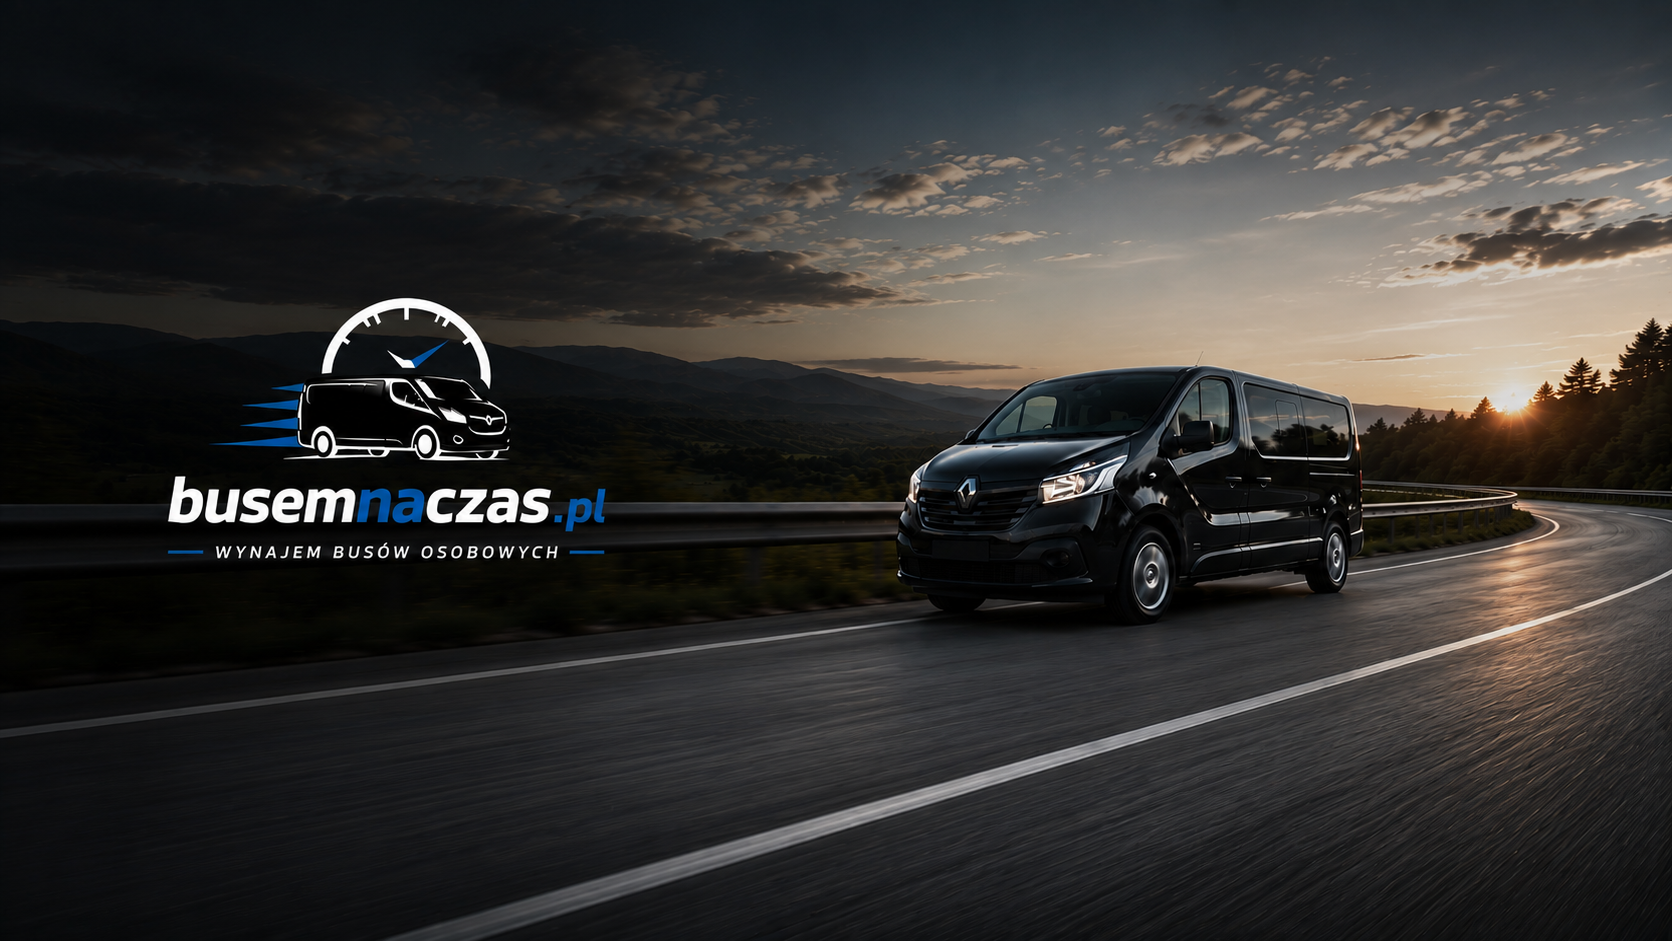
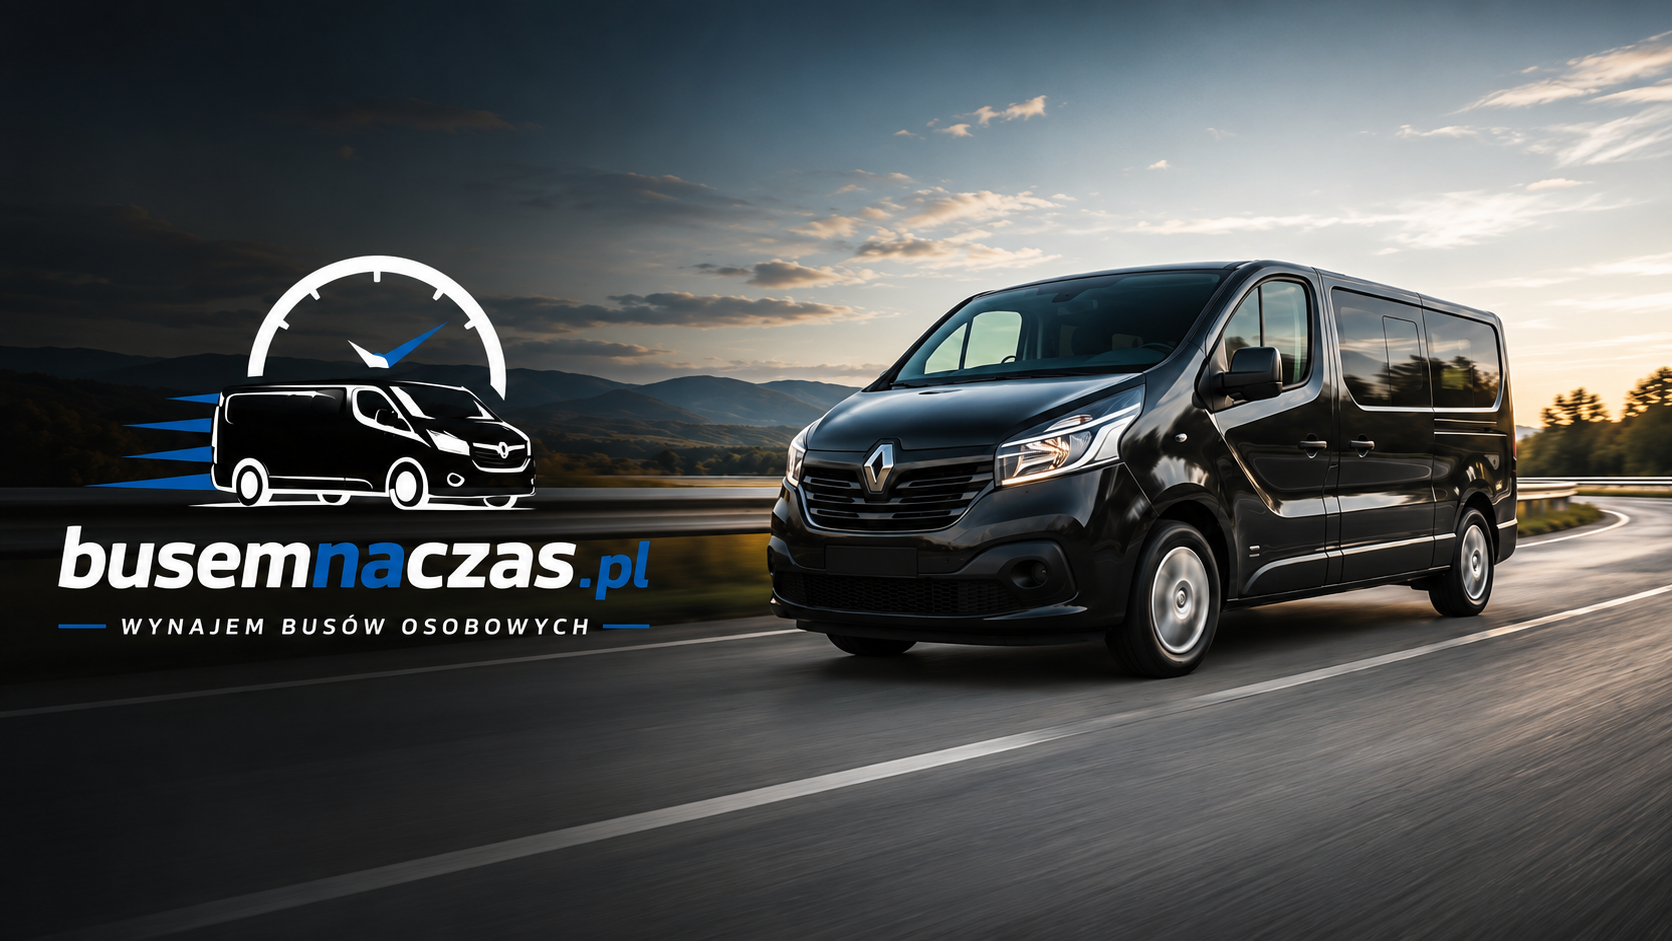
Add responsive mobile hero assets and quick actions

diff --git a/src/styles.css b/src/styles.css
@@ -17,6 +17,7 @@ img { display: block; max-width: 100%; }
 .container { width: min(1200px, calc(100% - 48px)); margin-inline: auto; }
 .brand { font-family: 'Inter Tight', sans-serif; font-size: 24px; font-weight: 500; letter-spacing: -.04em; white-space: nowrap; }
 .brand span { font-weight: 700; }
+.nav-brand { display: none; }
 .site-nav { position: fixed; inset: 0 0 auto; z-index: 50; height: 82px; border-bottom: 1px solid transparent; transition: background .35s, box-shadow .35s, border-color .35s; }
 .site-nav:not(.site-nav--scrolled) { color: #fff; }
 .site-nav:not(.site-nav--scrolled) .menu-button { color: #fff; }
@@ -41,6 +42,7 @@ img { display: block; max-width: 100%; }
 .hero-static-poster { position: absolute; inset: 0; width: 100%; height: 100%; }
 .hero-static-poster { z-index: 0; display: block; }
 .hero-static-poster img { width: 100%; height: 100%; object-fit: cover; object-position: center; }
+.hero-mobile-actions { display: none; }
 .hero-copy-section { background: #fff; border-bottom: 1px solid var(--line); }
 .intro-shell { padding: clamp(88px, 9vw, 132px) 0 54px; }
 .intro-grid { display: grid; grid-template-columns: minmax(0, 573px) minmax(320px, 1fr); gap: clamp(48px, 6vw, 92px); align-items: start; }
@@ -215,23 +217,34 @@ img { display: block; max-width: 100%; }
   .pricing-grid { grid-template-columns: repeat(2, 1fr); }
 }
 
+@media (max-width: 900px) {
+  .site-nav { height: 72px; }
+  .hero { padding-top: 72px; }
+  .hero-full-media { height: auto; min-height: 0; max-height: none; aspect-ratio: 16 / 9; }
+}
+
+@media (max-width: 900px) and (max-height: 500px) {
+  .hero-full-media { height: calc(100svh - 72px); aspect-ratio: auto; }
+}
+
 @media (max-width: 680px) {
   .container { width: min(100% - 32px, 1200px); }
   .site-nav { height: 68px; background: transparent; backdrop-filter: none; }
   .site-nav--scrolled { background: rgba(255,255,255,.94); backdrop-filter: blur(14px); }
   .brand { font-size: 20px; }
+  .nav-brand { display: inline; }
   .nav-cta { display: none; }
   .hero { padding-top: 68px; min-height: 0; }
-  .hero-full-media { height: auto; min-height: 0; max-height: none; aspect-ratio: 1672 / 941; }
+  .hero-full-media { height: auto; min-height: 0; max-height: none; aspect-ratio: 3 / 4; }
   .hero-static-poster img { object-position: center; }
-  .intro-shell { padding: 72px 0 42px; }
-  .intro-grid { gap: 32px; }
-  .intro-grid h1 { padding-top: 0; font-size: 45px; line-height: 1.01; }
-  .hero-subtitle { margin-top: 22px; font-size: 20px; }
-  .hero-body { margin-top: 18px; font-size: 14px; }
-  .hero-actions { margin-top: 28px; }
-  .hero-actions .button { min-width: 0; flex: 1; padding-inline: 14px; }
-  .trust-row { margin-top: 42px; grid-template-columns: repeat(2, 1fr); gap: 15px 12px; }
+  .hero-mobile-actions { position: absolute; z-index: 1; right: 16px; bottom: 16px; left: 16px; display: grid; grid-template-columns: 1fr 1fr; gap: 10px; }
+  .hero-mobile-actions .button { min-width: 0; min-height: 48px; padding-inline: 12px; border-color: rgba(255,255,255,.72); box-shadow: 0 10px 24px rgba(0,0,0,.22); }
+  .hero-mobile-actions .button-secondary { background: rgba(255,255,255,.94); }
+  .hero-copy-section { border-bottom: 0; }
+  .intro-shell { position: relative; height: 0; padding: 0; }
+  .intro-grid { display: block; }
+  .hero-title { position: absolute; width: 1px; height: 1px; margin: -1px; padding: 0; overflow: hidden; clip: rect(0, 0, 0, 0); white-space: nowrap; }
+  .intro-details, .trust-row { display: none; }
   .hero-media { min-height: 360px; }
   .hero-media img { object-position: 59% center; }
   .feature-rail { grid-template-columns: 1fr 1fr; min-height: 0; padding-block: 14px; }
@@ -277,7 +290,7 @@ img { display: block; max-width: 100%; }
   .footer-top nav { flex-wrap: wrap; }
   .footer-top > a:last-child { justify-self: start; }
   .footer-bottom { flex-direction: column; gap: 12px; }
-  .mobile-cta { position: fixed; z-index: 60; left: 12px; right: 12px; bottom: max(12px, env(safe-area-inset-bottom)); height: 58px; display: grid; grid-template-columns: .8fr 1.2fr; padding: 4px; border: 1px solid rgba(255,255,255,.7); border-radius: 16px; background: rgba(255,255,255,.94); box-shadow: 0 12px 40px rgba(0,0,0,.18); backdrop-filter: blur(14px); }
+  .mobile-cta { display: none; }
   .mobile-cta a { display: flex; align-items: center; justify-content: center; gap: 7px; border-radius: 12px; font-size: 13px; font-weight: 700; }
   .mobile-cta a:last-child { color: #fff; background: var(--blue); }
   .mobile-cta svg { width: 17px; }

diff --git a/index.html b/index.html
@@ -11,15 +11,18 @@
     <meta property="og:type" content="website" />
     <meta property="og:image" content="/assets/hero-static.webp" />
     <meta name="twitter:card" content="summary_large_image" />
-    <link rel="preload" as="image" href="/assets/hero-static.webp" type="image/webp" media="(min-width: 681px)" fetchpriority="high" />
-    <link rel="preload" as="image" href="/assets/hero-static-1280.webp" type="image/webp" media="(max-width: 680px)" fetchpriority="high" />
+    <link rel="preload" as="image" href="/assets/hero-static.webp" type="image/webp" media="(min-width: 901px)" fetchpriority="high" />
+    <link rel="preload" as="image" href="/assets/hero-static-1280.webp" type="image/webp" media="(min-width: 681px) and (max-width: 900px)" fetchpriority="high" />
+    <link rel="preload" as="image" href="/assets/hero-mobile-portrait.webp" type="image/webp" media="(max-width: 680px)" fetchpriority="high" />
     <style>
       .initial-hero{height:100svh;padding-top:82px;overflow:hidden;background:#101a22}
       .initial-hero picture,.initial-hero img{display:block;width:100%;height:calc(100svh - 82px)}
       .initial-hero img{object-fit:cover}
-      @media(max-width:680px){.initial-hero{height:auto;padding-top:68px}.initial-hero picture{height:auto;min-height:0;max-height:none;aspect-ratio:1672/941}.initial-hero img{height:100%;min-height:0;max-height:none}}
+      @media(max-width:900px){.initial-hero{height:auto;padding-top:72px}.initial-hero picture{height:auto;min-height:0;max-height:none;aspect-ratio:16/9}.initial-hero img{height:100%;min-height:0;max-height:none}}
+      @media(max-width:900px) and (max-height:500px){.initial-hero{height:100svh}.initial-hero picture,.initial-hero img{height:calc(100svh - 72px);aspect-ratio:auto}}
+      @media(max-width:680px){.initial-hero{padding-top:68px}.initial-hero picture{aspect-ratio:3/4}}
     </style>
     <script type="application/ld+json">{"@context":"https://schema.org","@type":"AutoRental","name":"BusemNaCzas.pl","telephone":"[phone redacted]","areaServed":["Wieruszów","Kępno","Ostrzeszów","Syców","Kluczbork","Wieluń","Złoczew"],"makesOffer":{"@type":"Offer","itemOffered":{"@type":"Car","name":"Renault Trafic LONG","vehicleSeatingCapacity":9}}}</script>
   </head>
-  <body><div id="root"><div class="initial-hero" aria-hidden="true"><picture><source media="(max-width: 680px)" srcset="/assets/hero-static-1280.webp" type="image/webp" /><img src="/assets/hero-static.webp" width="1672" height="941" fetchpriority="high" alt="" /></picture></div></div><script type="module" src="/src/main.tsx"></script></body>
+  <body><div id="root"><div class="initial-hero" aria-hidden="true"><picture><source media="(max-width: 680px)" srcset="/assets/hero-mobile-portrait.webp" type="image/webp" /><source media="(max-width: 900px)" srcset="/assets/hero-static-1280.webp" type="image/webp" /><img src="/assets/hero-static.webp" width="1672" height="941" fetchpriority="high" alt="" /></picture></div></div><script type="module" src="/src/main.tsx"></script></body>
 </html>

diff --git a/src/App.tsx b/src/App.tsx
@@ -62,16 +62,21 @@ function App() {
       <section className="hero hero-image-only" aria-label="BusemNaCzas.pl — Renault Trafic">
         <div className="hero-full-media">
           <picture className="hero-static-poster" data-testid="hero-poster-picture" aria-hidden="true">
-            <source media="(max-width: 680px)" srcSet="/assets/hero-static-1280.webp" type="image/webp" />
+            <source media="(max-width: 680px)" srcSet="/assets/hero-mobile-portrait.webp" type="image/webp" />
+            <source media="(max-width: 900px)" srcSet="/assets/hero-static-1280.webp" type="image/webp" />
             <img src="/assets/hero-static.webp" width="1672" height="941" fetchPriority="high" decoding="sync" alt="" />
           </picture>
+          <div className="hero-mobile-actions" data-testid="mobile-hero-actions" aria-label="Szybki kontakt">
+            <a className="button button-secondary" href={siteContent.phone.href}><Phone size={18} />Zadzwoń</a>
+            <a className="button button-primary" href="#kontakt">Zarezerwuj</a>
+          </div>
         </div>
       </section>
 
       <section className="hero-copy-section" aria-labelledby="hero-title">
         <div className="container intro-shell">
           <div className="intro-grid">
-            <h1 id="hero-title">Wynajem 9-osobowych busów Renault Trafic</h1>
+            <h1 id="hero-title" className="hero-title">Wynajem 9-osobowych busów Renault Trafic</h1>
             <div className="intro-details">
               <p className="hero-subtitle">Wygodny, bezpieczny i gotowy na każdą podróż.</p>
               <p className="hero-body">Wynajem krótko- i długoterminowy. Obsługujemy Wieruszów, Kępno, Ostrzeszów, Syców, Kluczbork, Wieluń i Złoczew.</p>

diff --git a/src/App.test.tsx b/src/App.test.tsx
@@ -11,12 +11,16 @@ describe('landing page', () => {
     expect(screen.getAllByRole('link', { name: 'Zarezerwuj' }).length).toBeGreaterThan(1)
     expect(screen.getAllByRole('link', { name: /[phone redacted]/ })[0]).toHaveAttribute('href', 'tel:[phone redacted]')
     expect(screen.getByLabelText('BusemNaCzas.pl — strona główna')).toBeInTheDocument()
+    expect(screen.getByLabelText('BusemNaCzas.pl — początek strony')).toBeInTheDocument()
     expect(screen.queryByText('k. Wieruszowa')).not.toBeInTheDocument()
     expect(screen.queryByText('k. Kępna')).not.toBeInTheDocument()
     expect(screen.getByRole('heading', { name: 'Dwa busy. Pełna swoboda podróży.' })).toBeInTheDocument()
     expect(screen.queryByText('Dwa Trafiki. Jeden standard podróży.')).not.toBeInTheDocument()
     expect(screen.queryByLabelText('Renault Trafic BusemNaCzas.pl w trasie')).not.toBeInTheDocument()
     expect(screen.getByTestId('hero-poster-picture').querySelector('img')).toHaveAttribute('src', '/assets/hero-static.webp')
+    expect(screen.getByTestId('hero-poster-picture').querySelector('source[media="(max-width: 680px)"]')).toHaveAttribute('srcset', '/assets/hero-mobile-portrait.webp')
+    expect(screen.getByTestId('mobile-hero-actions').querySelector('a[href="tel:[phone redacted]"]')).toHaveTextContent('Zadzwoń')
+    expect(screen.getByTestId('mobile-hero-actions').querySelector('a[href="#kontakt"]')).toHaveTextContent('Zarezerwuj')
   })
 
   it('switches vehicles and renders the photo gallery', async () => {

diff --git a/src/components/Nav.tsx b/src/components/Nav.tsx
@@ -26,6 +26,7 @@ export function Nav() {
   return (
     <header className={`site-nav ${scrolled ? 'site-nav--scrolled' : ''}`}>
       <div className="container nav-inner">
+        <a className="brand nav-brand" href="#top" aria-label="BusemNaCzas.pl — początek strony">Busem<span>NaCzas</span>.pl</a>
         <nav className="desktop-nav" aria-label="Główna nawigacja">
           {siteContent.nav.map(([label, id]) => <a key={id} href={`#${id}`}>{label}</a>)}
         </nav>

diff --git a/public/assets/AGENTS.md b/public/assets/AGENTS.md
@@ -4,7 +4,7 @@ Browser-served vehicle, gallery, logo, font, and static hero assets.
 
 # Ownership
 
-The active hero uses `hero-static.webp` on desktop and `hero-static-1280.webp` on mobile.
+The active hero uses `hero-static.webp` on desktop, `hero-static-1280.webp` on tablet, and `hero-mobile-portrait.webp` at mobile widths up to 680px.
 
 # Local Contracts
 

diff --git a/tools/hero/AGENTS.md b/tools/hero/AGENTS.md
@@ -4,7 +4,7 @@ Deterministic static hero optimization and verification.
 
 # Ownership
 
-- `source/hero-source.png`: exact user-supplied flattened artwork.
+- `source/hero-source.png` and `source/hero-mobile-source.png`: exact user-supplied flattened desktop and mobile artwork.
 - `browser-assets.json`: stable responsive output interface.
 - `config.mjs`: immutable geometry and path contract.
 - `build.mjs`: WebP production.